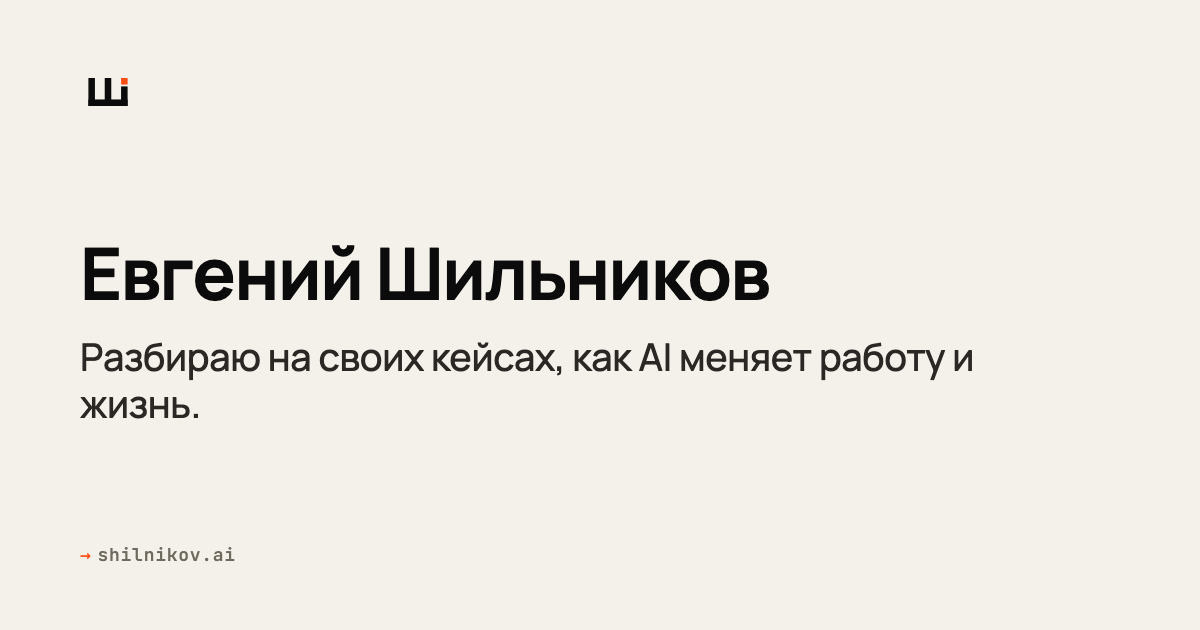
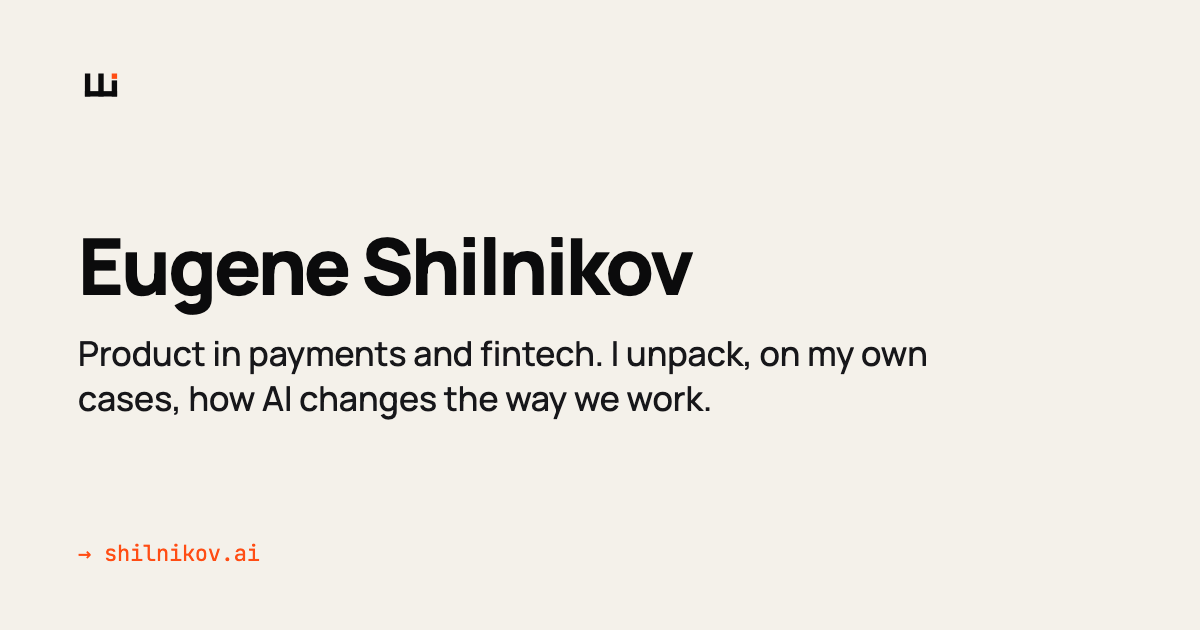
Английский по умолчанию, переписан текст о себе, локализованы метаданные и превью
Сайт читает международная аудитория, а по умолчанию открывался русский.
Теперь shilnikov.ai — английский, русская версия на /ru.

Текст о себе показывал только одну половину опыта («финтех для малого
бизнеса»). Переписан на обоих языках: путь от идеи до первой выручки,
проданный Яндексу стартап, кошелёк и цифровой банк в Яндекс Пэй, карты
Yango в ОАЭ, продукты группы Fortis и LifePay — потребительская линия
теперь видна наравне с малым бизнесом.

Метаданные были русскими для обеих версий, из-за чего превью ссылки в
мессенджерах приходило по-русски. Теперь заголовок, описание и картинка
превью локализованы: og.png — английская, og-ru.png — прежняя русская.

diff --git a/src/i18n/ui.ts b/src/i18n/ui.ts
@@ -1,13 +1,20 @@
-// UI strings keyed by locale. Default locale is "ru". Add new keys here, not in components.
+// UI strings keyed by locale. Default locale is "en" (22.08.2026: сайт читает международная аудитория). Add new keys here, not in components.
 export const languages = {
   ru: "Русский",
   en: "English",
 } as const;
 
-export const defaultLang = "ru";
+export const defaultLang = "en";
 
 export const ui = {
   ru: {
+    "meta.home.title": "Главная",
+    "meta.home.description":
+      "Евгений Шильников — продуктовый лидер в платежах и финтехе, Дубай. Пишу о продукте, AI-агентах и личных системах.",
+    "meta.blog.title": "Блог",
+    "meta.blog.description": "Заметки о продукте, AI-агентах и личных системах",
+    "meta.projects.title": "Проекты",
+    "meta.projects.description": "Личные проекты со ссылками на репозитории и демо",
     "nav.blog": "блог",
     "nav.projects": "проекты",
     "footer.copyright": "© 2026",
@@ -24,22 +31,22 @@ export const ui = {
     "projects.empty":
       "Пока ничего не опубликовано — открытый код и кейсы появятся здесь.",
     "home.h1":
-      "Привет, меня зовут Женя Шильников. Я разбираю на своих кейсах, как AI меняет работу и жизнь.",
+      "Привет, меня зовут Женя Шильников. Я строю продукты в платежах и финтехе — и разбираю на своих кейсах, как AI меняет работу.",
     "home.intro1.part1":
-      "Строю финтех для малого бизнеса в ОАЭ и России. Начинал со своего стартапа — запустил сервис онлайн-записи для предпринимателей и продал его Яндексу. Внутри Яндекса развивал сервисы для бизнеса в Картах, дальше возглавлял продукт ",
+      "Пятнадцать лет в продукте: от идеи до первой устойчивой выручки. Начинал со своего стартапа — сделал сервис онлайн-записи для малого бизнеса и продал его Яндексу вместе с командой. Внутри Яндекса развивал сервисы для бизнеса в Картах, затем отвечал за продукт в ",
     "home.intro1.link1.label": "Яндекс Пэй",
     "home.intro1.link1.href": "https://pay.yandex.ru/",
-    "home.intro1.part2": " и запускал в ОАЭ ",
+    "home.intro1.part2": " — запустил платёжный кошелёк и полноценное банковское приложение. Дальше в ОАЭ поднял ",
     "home.intro1.link2.label": "Yango Maps",
     "home.intro1.link2.href": "https://maps.yango.com/en-ae/",
     "home.intro1.part3":
-      " — международную версию Яндекс Карт. Сейчас руковожу продуктами в ",
+      " — международные карты и навигацию. Сейчас руковожу продуктами группы ",
     "home.intro1.link3.label": "Fortis",
     "home.intro1.link3.href": "https://www.wefortis.com/",
     "home.intro1.part4": " и ",
     "home.intro1.link4.label": "LifePay",
     "home.intro1.link4.href": "https://life-pay.ru/",
-    "home.intro1.part5": ".",
+    "home.intro1.part5": ": платежи и POS-платформа для малого бизнеса в ОАЭ и России.",
     "home.intro2.part1": "Что внедряю в работе и в жизни — описываю в ",
     "home.intro2.link.label": "Telegram-канале",
     "home.intro2.link.href": "https://t.me/shilnikov_ai",
@@ -56,6 +63,13 @@ export const ui = {
     "theme.system": "Системная тема",
   },
   en: {
+    "meta.home.title": "Home",
+    "meta.home.description":
+      "Eugene Shilnikov — product leader in payments and fintech, Dubai. Writing about product, AI agents and personal systems.",
+    "meta.blog.title": "Blog",
+    "meta.blog.description": "Notes on product, AI agents and personal systems",
+    "meta.projects.title": "Projects",
+    "meta.projects.description": "Personal projects with links to repositories and demos",
     "nav.blog": "blog",
     "nav.projects": "projects",
     "footer.copyright": "© 2026",
@@ -72,24 +86,24 @@ export const ui = {
     "projects.empty":
       "Nothing published yet — open-source code and case studies coming here.",
     "home.h1":
-      "Hi, I'm Eugene Shilnikov. I unpack — on my own cases — how AI is changing work and life.",
+      "Hi, I'm Eugene Shilnikov. I build products in payments and fintech — and unpack, on my own cases, how AI is changing the way we work.",
     "home.intro1.part1":
-      "I build fintech for small business in the UAE and Russia. Started with my own startup — launched an online booking service for entrepreneurs and sold it to Yandex. Inside Yandex I grew business services in Maps, then led the product at ",
+      "Fifteen years in product: from an idea to the first sustainable revenue. I started with my own startup — an online booking service for small business, sold to Yandex together with the team. Inside Yandex I grew business services in Maps, then owned the product at ",
     "home.intro1.link1.label": "Yandex Pay",
     "home.intro1.link1.href": "https://pay.yandex.ru/",
-    "home.intro1.part2": " and launched in the UAE ",
+    "home.intro1.part2": " — launched a payment wallet and a full digital bank. After that, in the UAE, I built ",
     "home.intro1.link2.label": "Yango Maps",
     "home.intro1.link2.href": "https://maps.yango.com/en-ae/",
     "home.intro1.part3":
-      " — the international version of Yandex Maps. Now I lead products at ",
+      " — international maps and navigation. Today I lead group products at ",
     "home.intro1.link3.label": "Fortis",
     "home.intro1.link3.href": "https://www.wefortis.com/",
     "home.intro1.part4": " and ",
     "home.intro1.link4.label": "LifePay",
     "home.intro1.link4.href": "https://life-pay.ru/",
-    "home.intro1.part5": ".",
+    "home.intro1.part5": ": payments and a POS platform for small business in the UAE and Russia.",
     "home.intro2.part1":
-      "What I put into practice at work and in life — I describe on my ",
+      "What I put into practice at work and in life — I write about on my ",
     "home.intro2.link.label": "Telegram channel",
     "home.intro2.link.href": "https://t.me/shilnikov_ai",
     "home.intro2.part2": ". Here on the site — conclusions and ready-made solutions.",

diff --git a/src/consts.ts b/src/consts.ts
@@ -8,18 +8,19 @@ export const SITE: Site = {
 };
 
 export const HOME: Metadata = {
-  TITLE: "Главная",
-  DESCRIPTION: "Group CPO в Дубае пишет о продукте, AI-агентах и личных системах",
+  TITLE: "Home",
+  DESCRIPTION:
+    "Eugene Shilnikov — product leader in payments and fintech, Dubai. Writing about product, AI agents and personal systems.",
 };
 
 export const BLOG: Metadata = {
-  TITLE: "Блог",
-  DESCRIPTION: "Заметки о продукте, AI-агентах и личных системах",
+  TITLE: "Blog",
+  DESCRIPTION: "Notes on product, AI agents and personal systems",
 };
 
 export const PROJECTS: Metadata = {
-  TITLE: "Проекты",
-  DESCRIPTION: "Личные проекты со ссылками на репозитории и демо",
+  TITLE: "Projects",
+  DESCRIPTION: "Personal projects with links to repositories and demos",
 };
 
 export const SOCIALS: Socials = [
